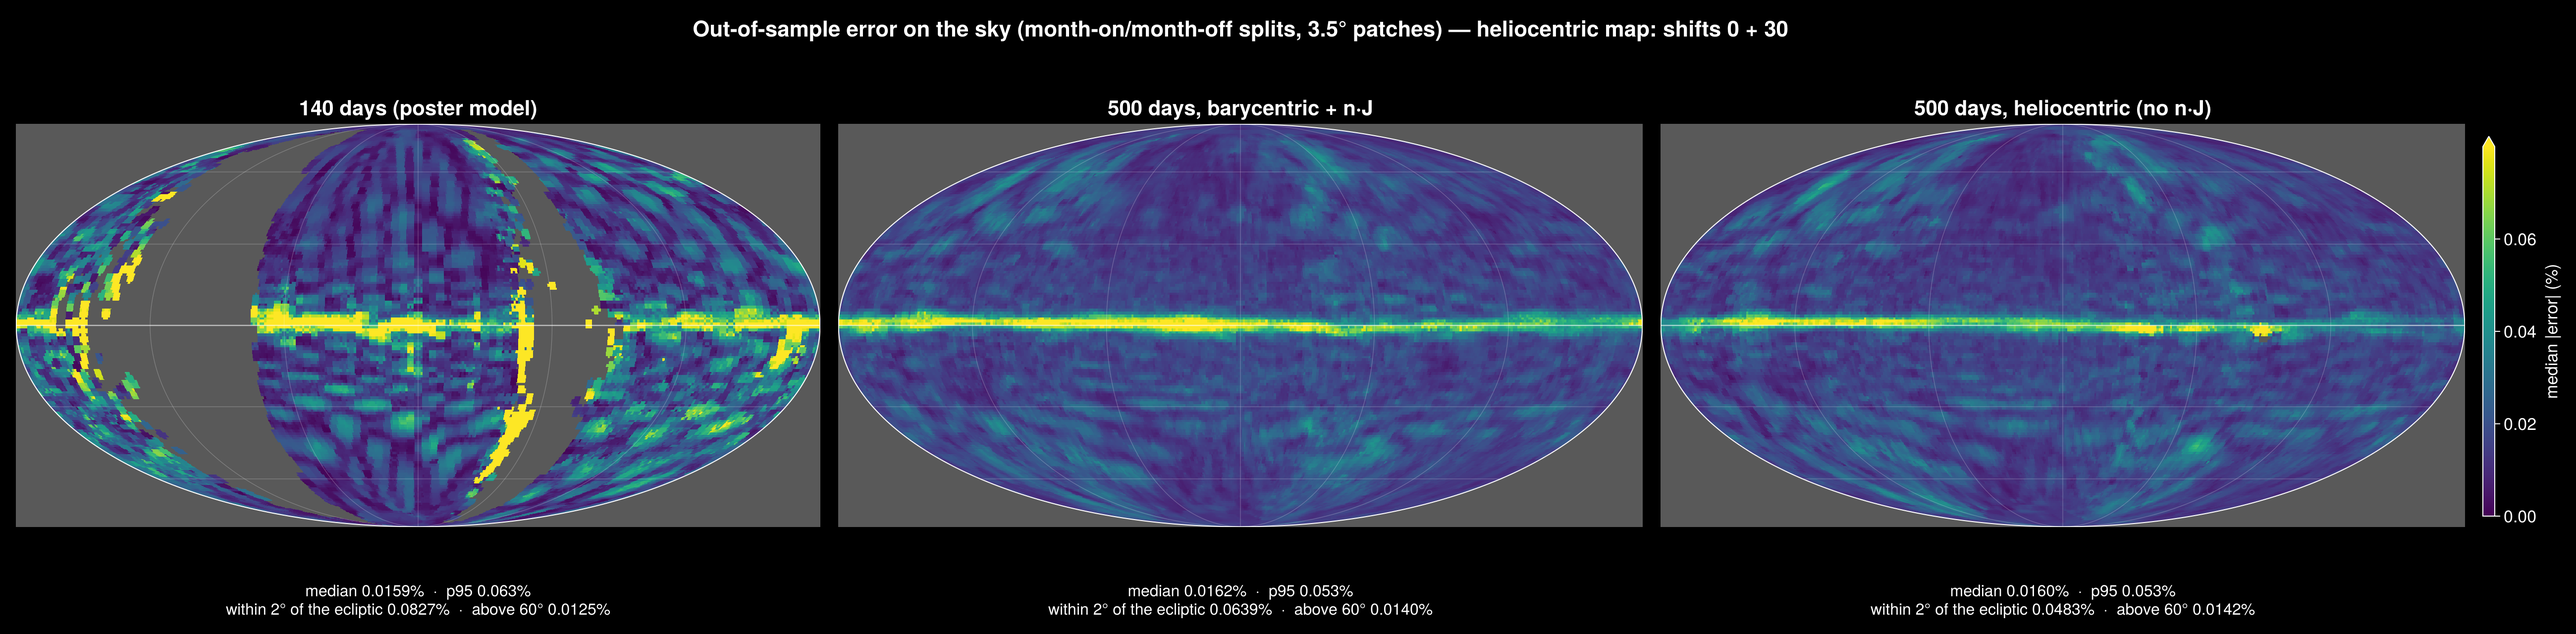
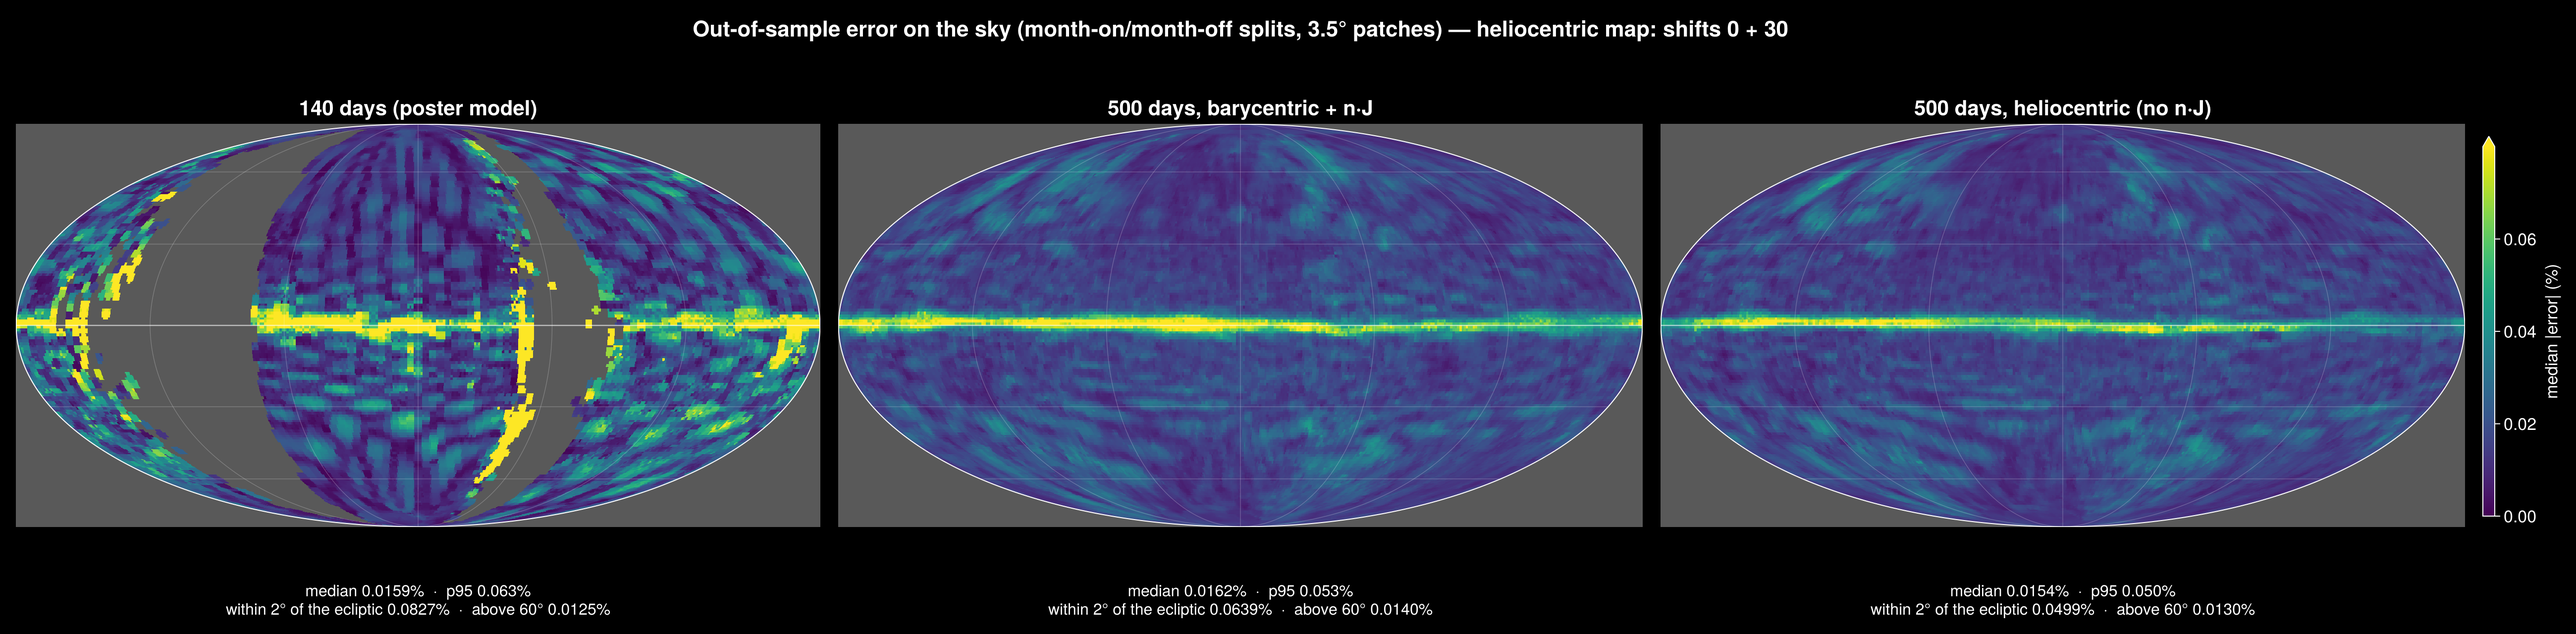
Round 29 done: full heliocentric 500-day sky map (median 0.0154%, ecliptic 0.050%); round 30 running
Claude-Session: https://claude.ai/code/session_012rGthNAyzBgnDfYXWSYd8K

diff --git a/STATUS.md b/STATUS.md
@@ -1,5 +1,5 @@
 # More_zodi status
-Updated: 2026-10-21 22:40, DESKTOP-BBASC81
+Updated: 2026-10-22 06:15, DESKTOP-BBASC81
 
 ## Headline
 Heliocentric (Sun-centred) inputs are now the default for the 500-day data: they remove the need for n·J and give the
@@ -28,12 +28,13 @@ test 1 passed (ring + blob reproduced to 0.002% of the total); test 2 (no Earth 
 Notebooks: notebooks/10202026.ipynb, notebooks/10212026.ipynb.
 
 ## Running now
-Round 29 (started 2026-10-21 20:59; ~4.8 GB RAM, below-normal priority): the remaining heliocentric 500-day sky-map
-shifts — stage 1 = shifts 10 + 40 (to ~01:30), stage 2 = shifts 20 + 50 (to ~06:00 Oct 22); 20 trainings, 500 epochs.
-Queued after it (auto-start): round 30, the learnable dust-band layer (sweeps/band_layer.jl, arch :bandmlp; trainable
-band tilt/node/width/shape), heliocentric 500 days, poster split, 5 seeds × 2 inits (Kelsall's values; deliberately
-perturbed = recovery test), 500 epochs, ~4.5 h → ~10:30. Smoke test passed (layer = Kelsall's profiles at init to 1e-6).
+Round 30 (started 2026-10-22 06:02, ~4.5 h → ~10:30; ~5 GB RAM, below-normal priority): the learnable dust-band layer
+(sweeps/band_layer.jl), heliocentric 500 days, poster split, 5 seeds × 2 inits (Kelsall's values; deliberately perturbed =
+recovery test), 500 epochs.
 
+## Full heliocentric 500-day sky map (round 29 done 06:02)
+6 shifts × 5 seeds, no n·J: median **0.0154%**, p95 **0.050%**, within 2° of the ecliptic **0.050%**, above 60° **0.0130%**
+(barycentric + n·J: 0.0162% / 0.053% / 0.064% / 0.0140%). figures/10212026_skymap_helio.png (right panel).
 ## Waiting on user
 nothing.
 
